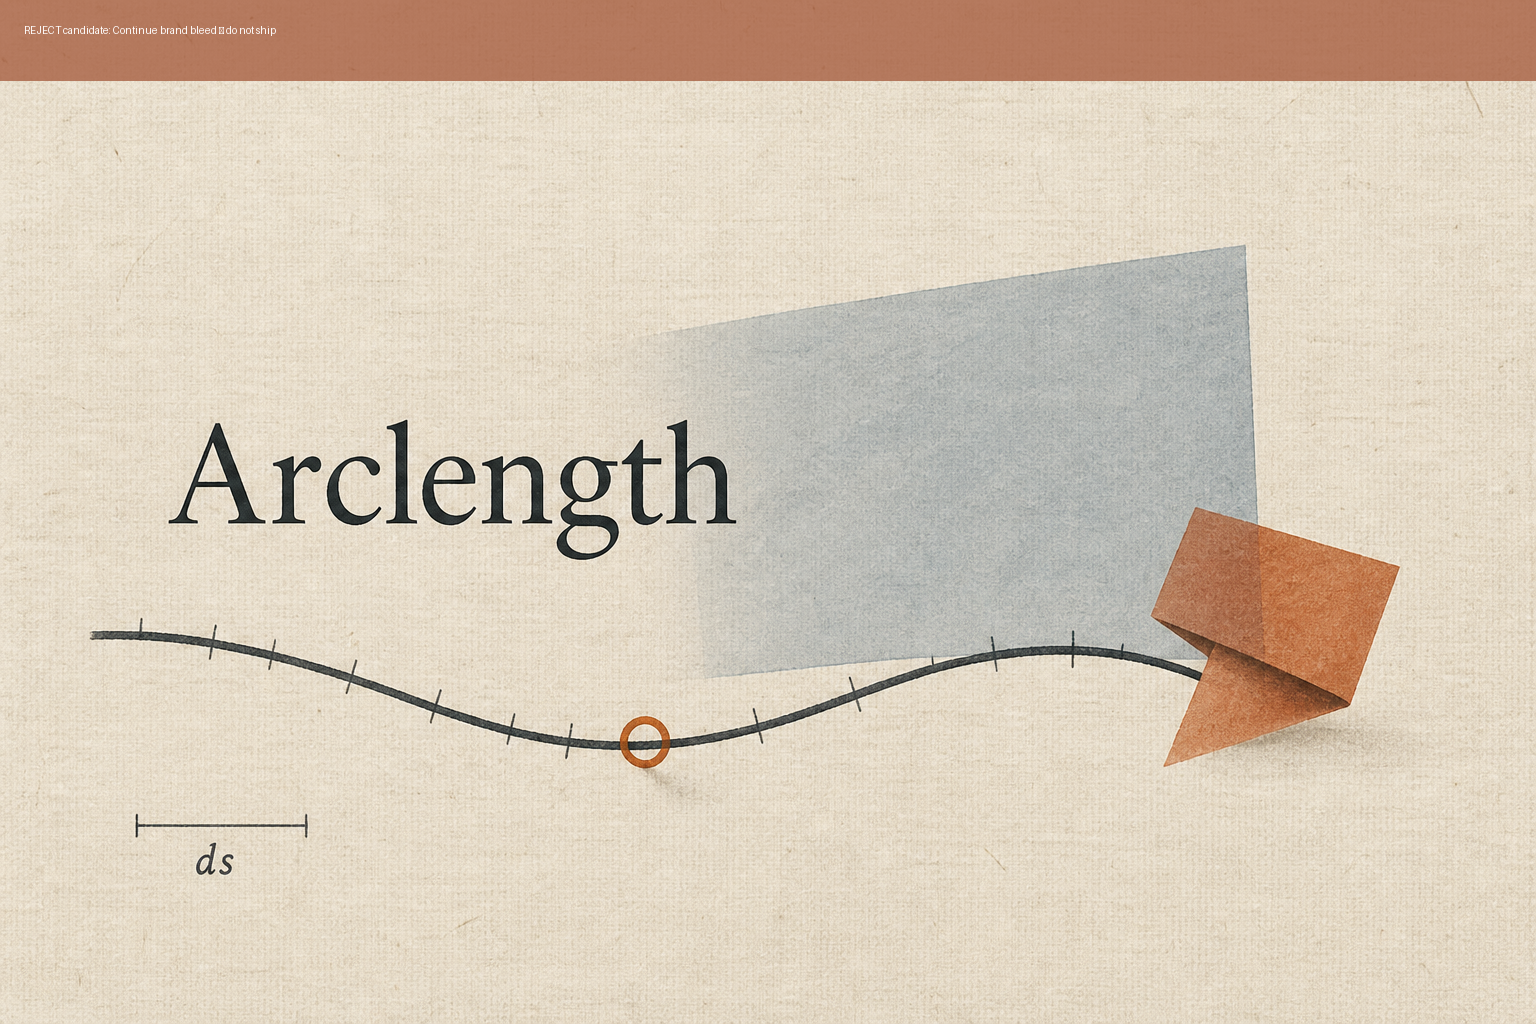
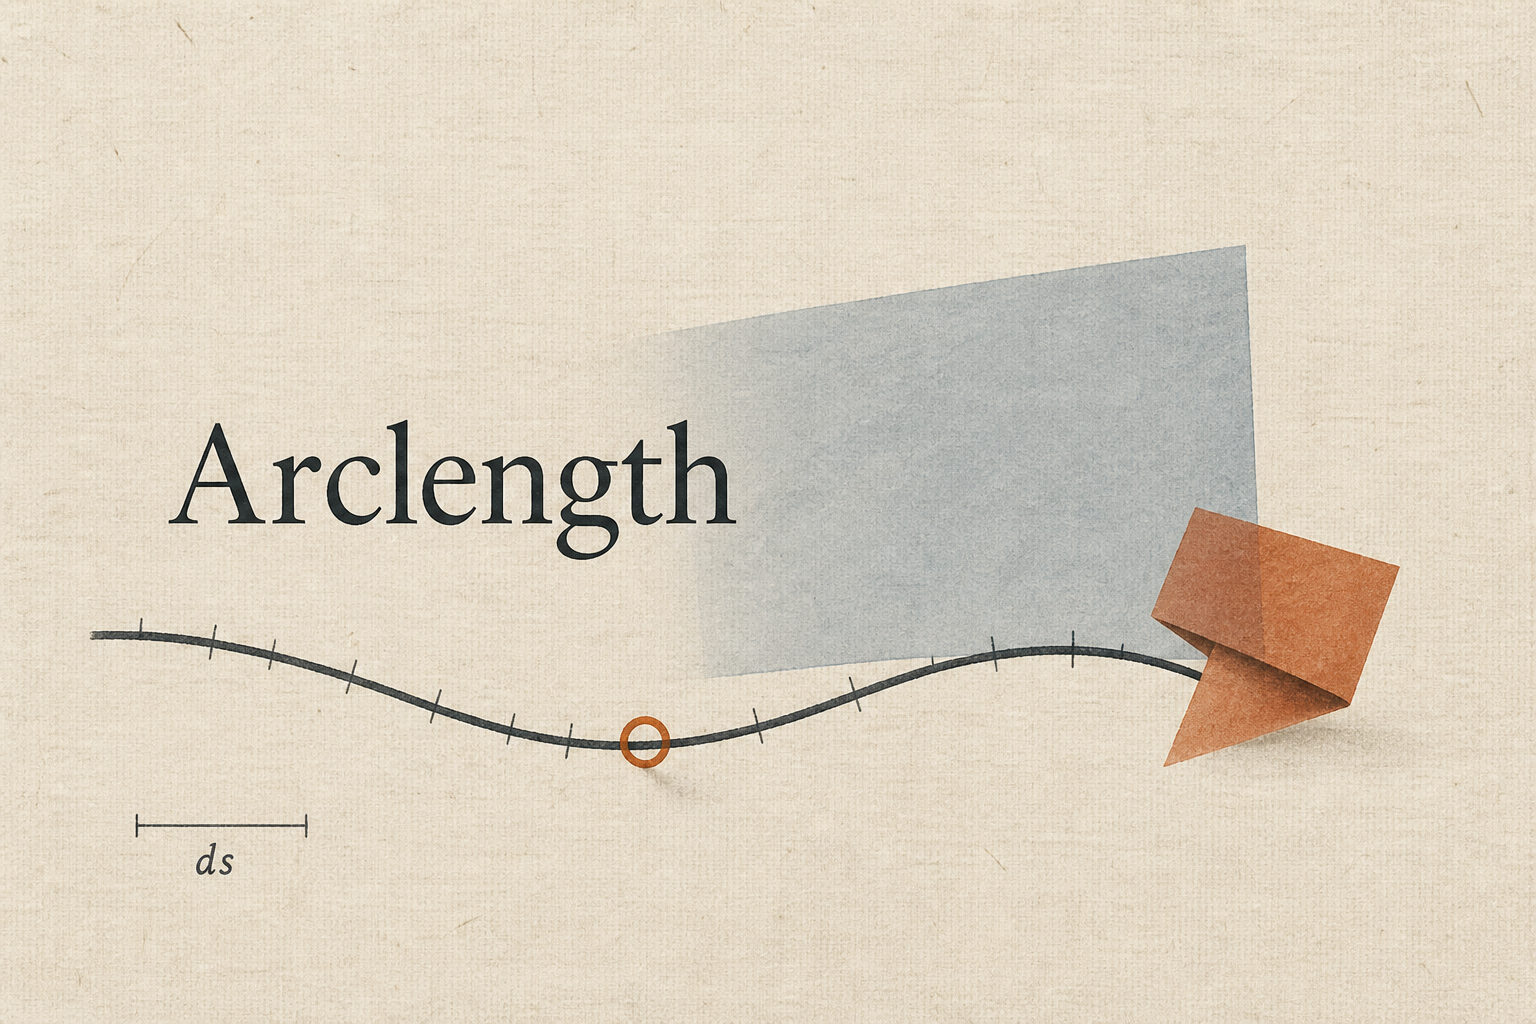
docs(media): clear false REJECT stamp on proposal_r2_01
Restore clean Arclength proposal art; the Continue-bleed reject banner
was a mistaken overlay on a good candidate.

Changed region(s): [[0.0, 0.0, 1.0, 0.0938]]

diff --git a/docs/plans/assets_20260731T180400Z_proposals_run2_close/README.md b/docs/plans/assets_20260731T180400Z_proposals_run2_close/README.md
@@ -2,16 +2,16 @@
 
 North star: `../assets_20260730T172200Z_banner_run2/run2-github-readme-hero.png`
 
-Generated candidates (not yet cropped to 2176×544 / 1500×500, not LFS-shipped):
+All four candidates are approved for shortlist consideration (any may be used after crop/QA):
 
-| File                                   | Intent                               |
-| :------------------------------------- | :----------------------------------- |
-| proposal_r2_01_arc_linen.png           | Arc Γ + linen field + quiet wordmark |
-| proposal_r2_02_continuation_fold.png   | Fold / pseudo-arclength path         |
-| proposal_r2_03_path_negative_space.png | Path + negative space                |
-| proposal_r2_04_plane_and_gamma.png     | Plane + Γ, minimal type              |
-| proposals_sheet_run2_close.png         | Contact sheet                        |
+| File                                   | Intent                                   |
+| :------------------------------------- | :--------------------------------------- |
+| proposal_r2_01_arc_linen.png           | Arc Γ + linen field + Arclength wordmark |
+| proposal_r2_02_continuation_fold.png   | Fold / pseudo-arclength path             |
+| proposal_r2_03_path_negative_space.png | Path + negative space                    |
+| proposal_r2_04_plane_and_gamma.png     | Plane + Γ, minimal type                  |
+| proposals_sheet_run2_close.png         | Contact sheet                            |
 
-Next: human pick → crop → QA → replace `media/*` if approved.
+Note: An earlier automated stamp saying REJECT on proposal 01 was a false alarm (agent mistook an intermediate Continue-bleed draft). The current 01 file is clean Arclength art.
 
-**REJECT:** `proposal_r2_01_arc_linen.png` shows Continue brand bleed (stamped). Prefer 02–04 for shortlist.
+Next: human pick → crop to 2176×544 / 1500×500 → QA → replace `media/*` if approved.
